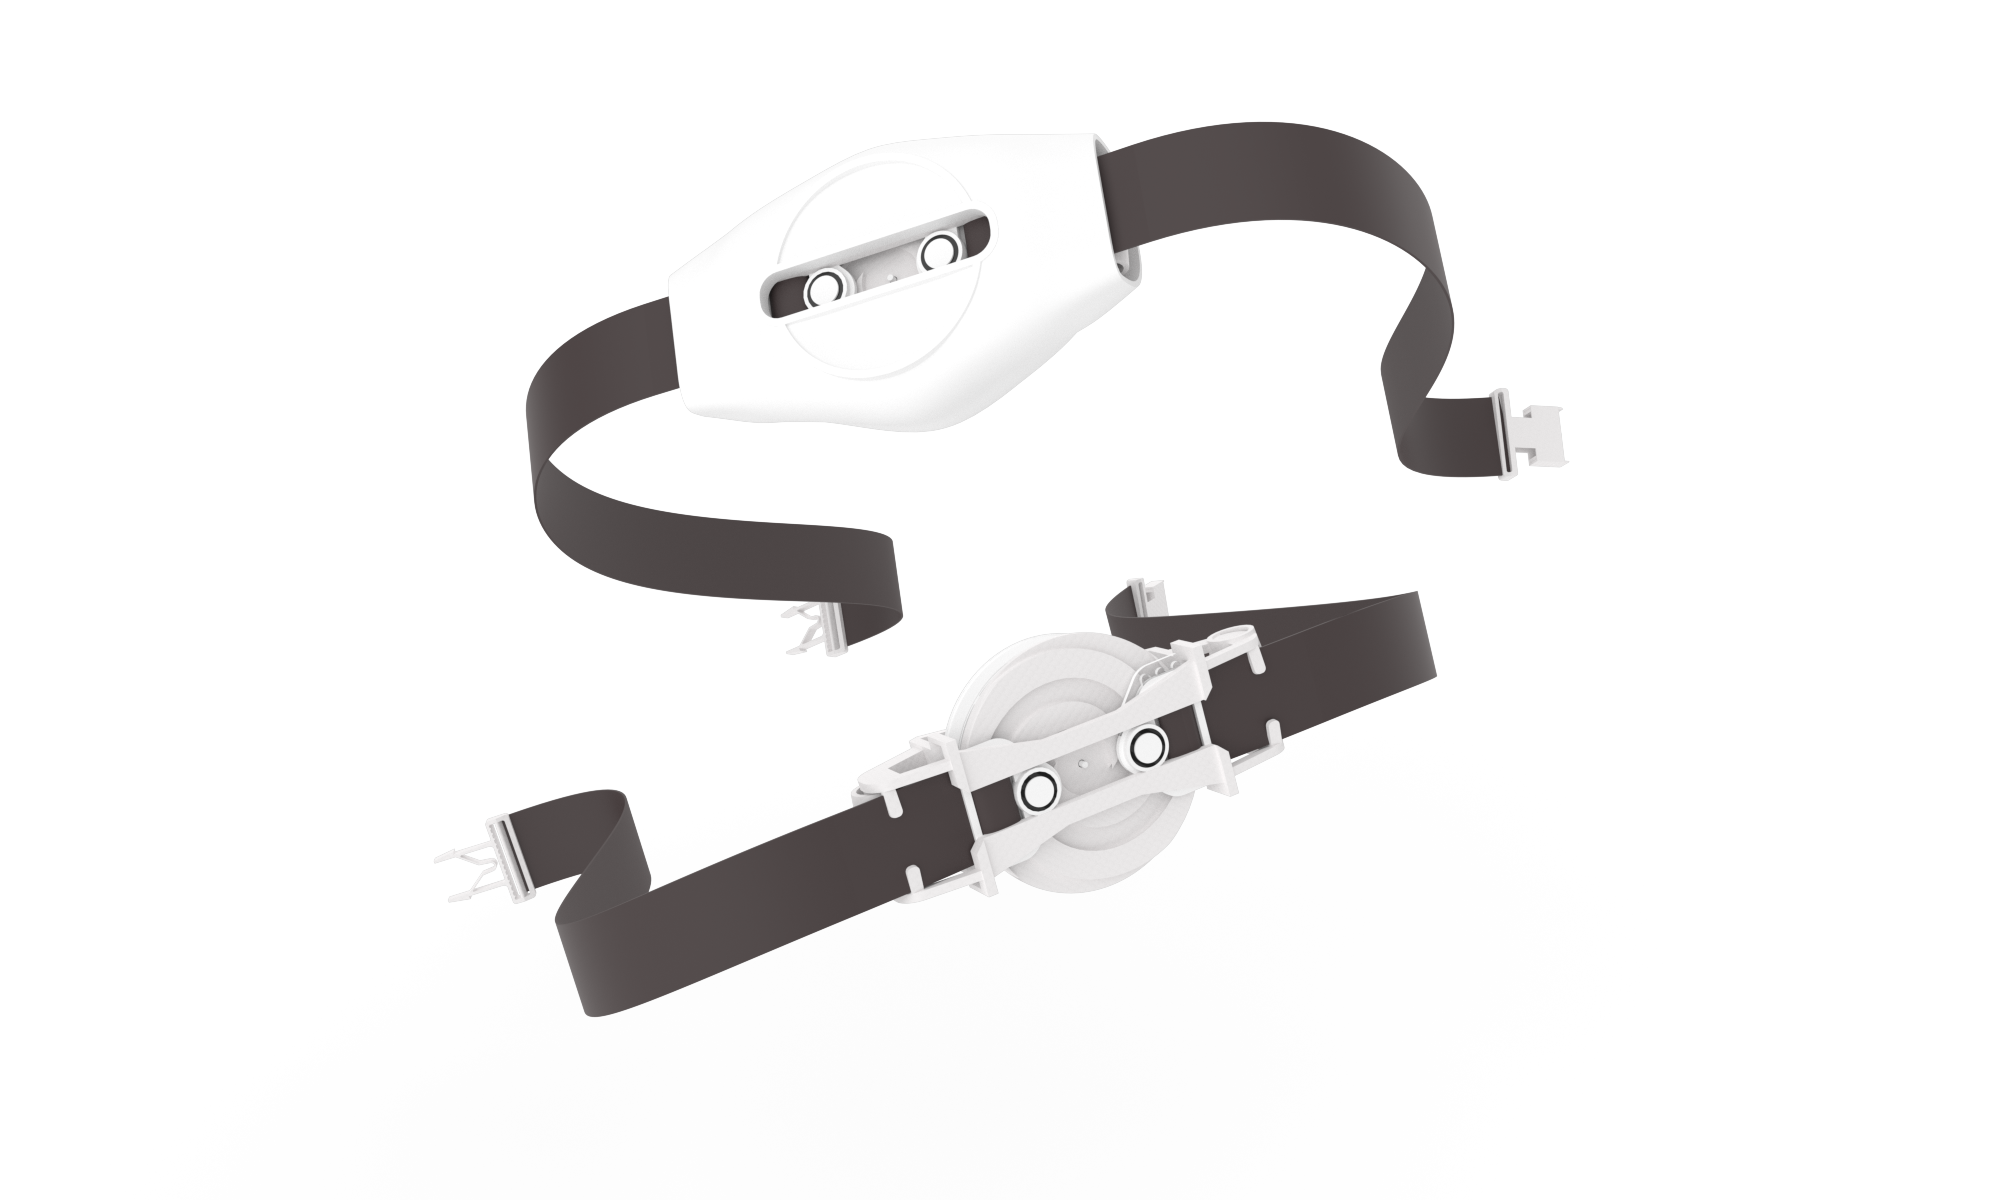
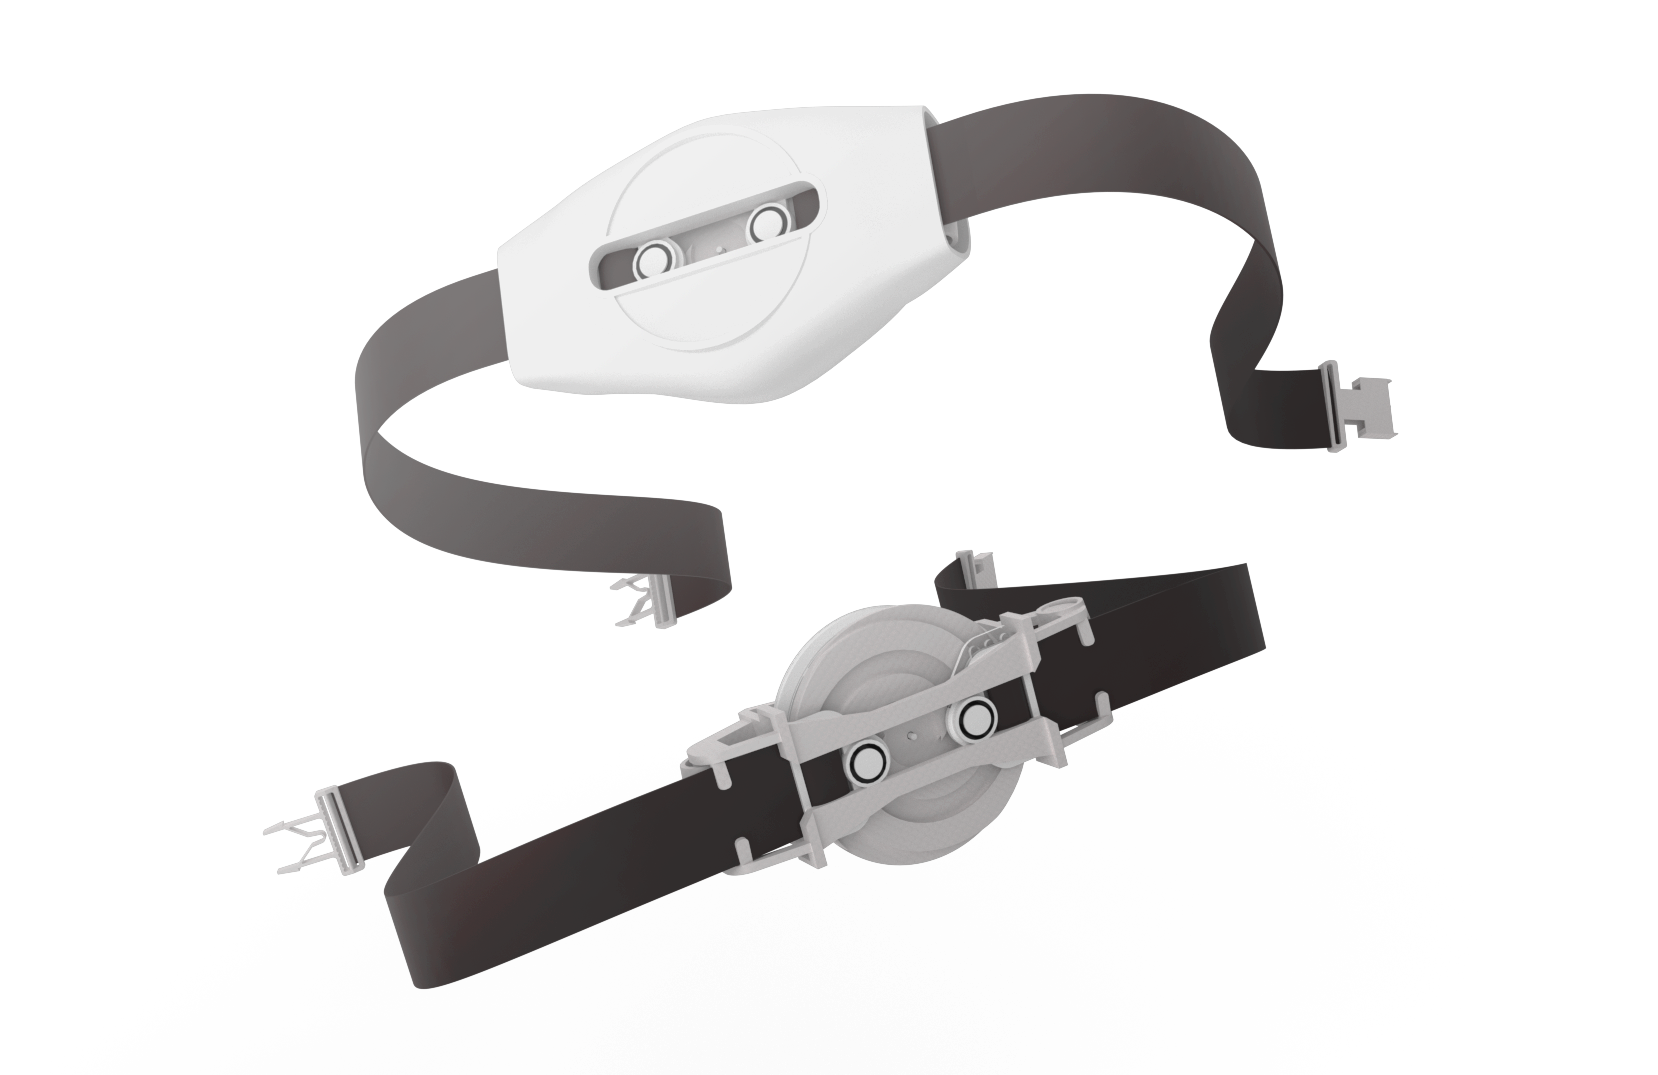
change inhale image

Changed region(s): [[0.1538, 0.4605, 0.769, 0.9209], [0.2153, 0.0614, 0.8613, 0.5833], [0.3999, 0.1228, 0.4306, 0.1535]]

diff --git a/projects/inhale.html b/projects/inhale.html
@@ -175,8 +175,7 @@
 					</p>
 				</div>
 				<div class="col-md-12 mt-5">
-					<img loading="lazy" class="mx-auto" alt="render of two inhales"
-						src="../img/project_covers/inhale_cover.png">
+					<img loading="lazy" class="mx-auto" alt="render of two inhales" src="../img/inhale/render 1.png">
 				</div>
 				<div class="col-md-12 text-center mt-5 pt-3">
 					<h3><a href="../projects">&lt;&lt; go back to projects</a></h3>
